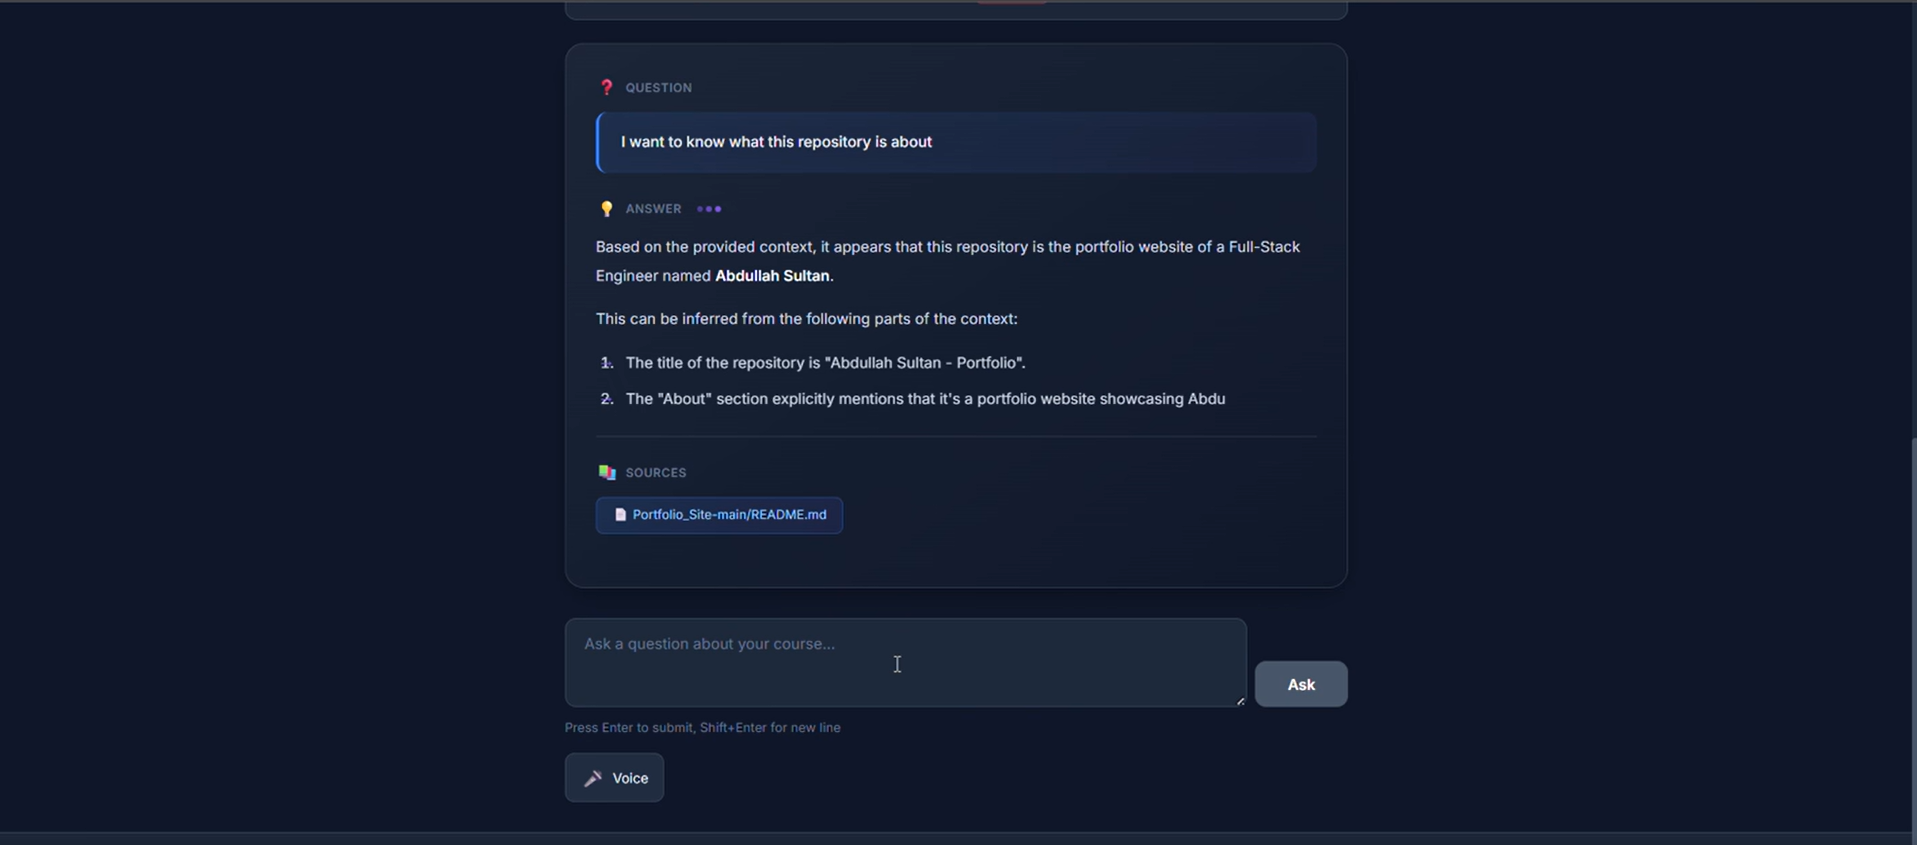
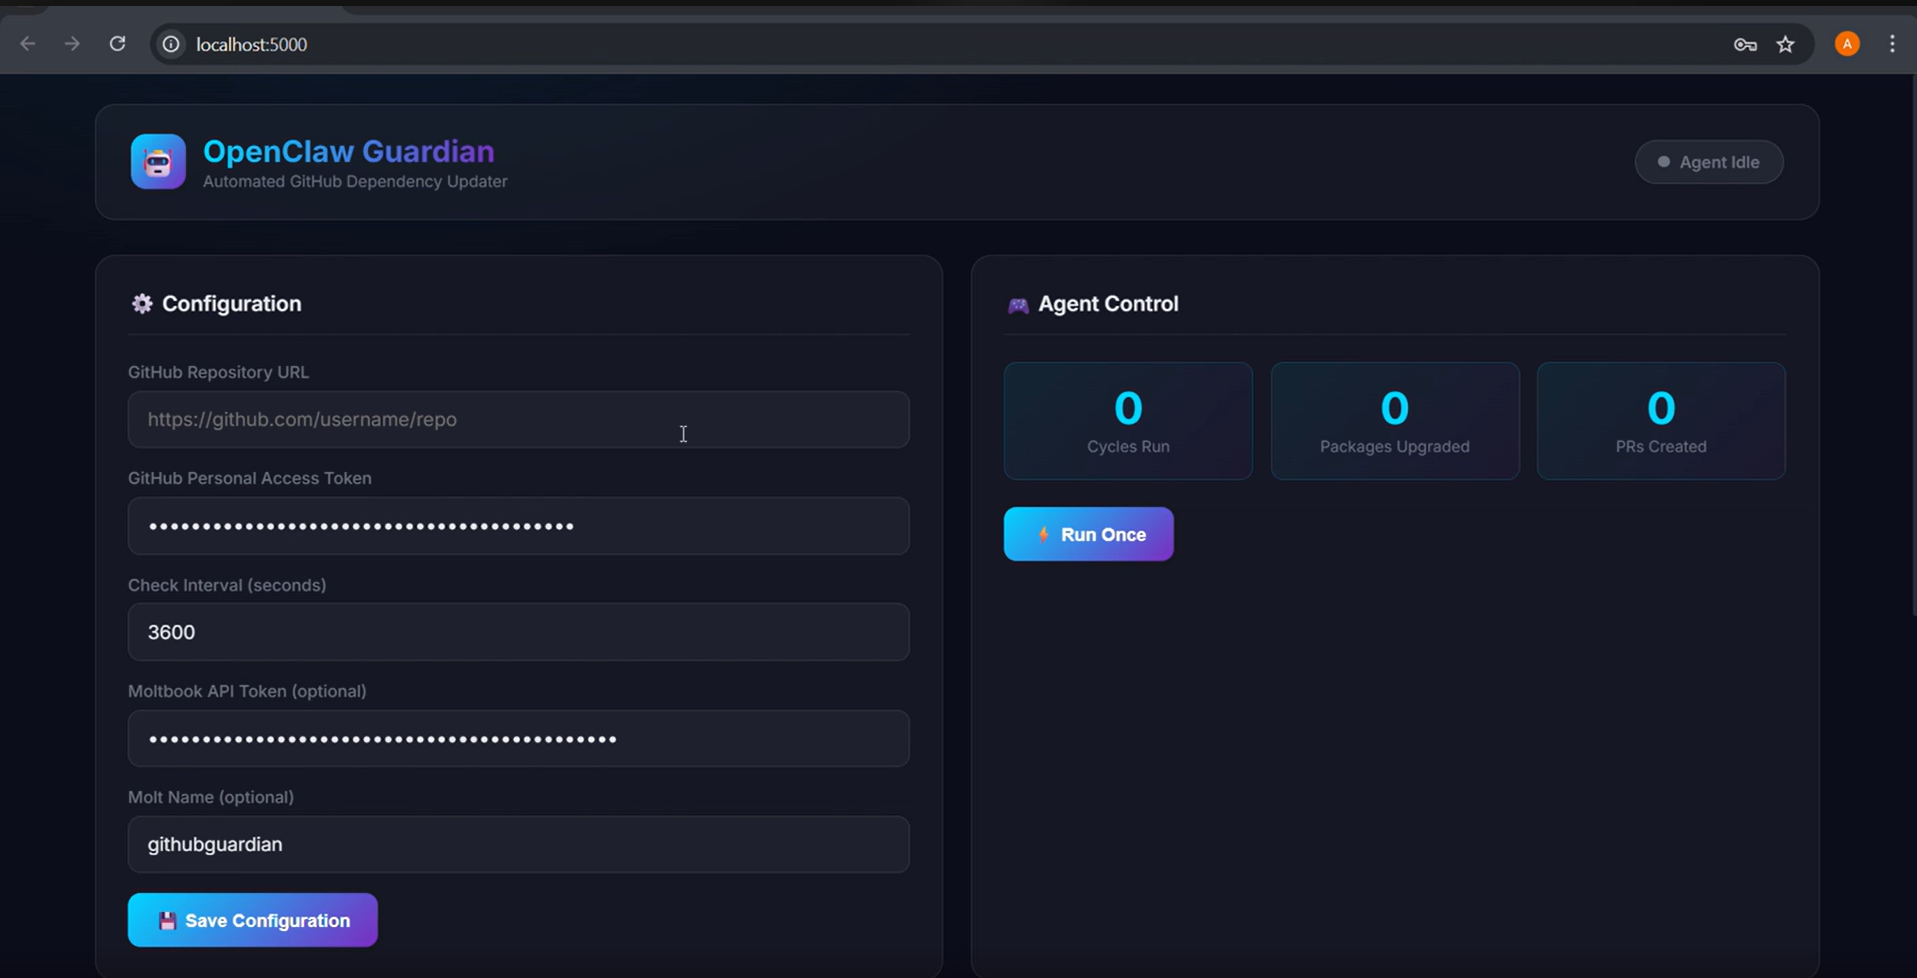
fixed bugs

diff --git a/src/components/ThingsBuilt.js b/src/components/ThingsBuilt.js
@@ -22,6 +22,7 @@ import safetyBoundaryImage1 from "../images/SafetyBoundary/1.jpg";
 import safetyBoundaryImage2 from "../images/SafetyBoundary/2.jpg";
 import openclawImage1 from "../images/Openclaw Guardian/1.png";
 import openclawImage2 from "../images/Openclaw Guardian/2.png";
+import openclawImage3 from "../images/Openclaw Guardian/3.png";
 
 const ThingsBuilt = ({ workBtnClickedActive }) => {
   const panaImages = [panaImage1, panaImage2, panaImage3, panaImage4];
@@ -29,14 +30,8 @@ const ThingsBuilt = ({ workBtnClickedActive }) => {
   const voicebiteImages = [voicebiteImage1, voicebiteImage2, voicebiteImage3];
   const makingReposSpeakableImages = [makingReposSpeakableImage1, makingReposSpeakableImage2, makingReposSpeakableImage3];
   const safetyBoundaryImages = [safetyBoundaryImage1, safetyBoundaryImage2];
-  const openclawImages = [openclawImage1, openclawImage2];
+  const openclawImages = [openclawImage1, openclawImage2, openclawImage3];
 
-  const [firstThingsMouseOver, setFirstThingMOuseOver] = useState(false);
-  const [fourthThingsMouseOver, setFourthThingMOuseOver] = useState(false);
-  const [voicebiteThingsMouseOver, setVoicebiteThingMOuseOver] = useState(false);
-  const [makingReposSpeakableThingsMouseOver, setMakingReposSpeakableThingMOuseOver] = useState(false);
-  const [safetyBoundaryThingsMouseOver, setSafetyBoundaryThingMOuseOver] = useState(false);
-  const [openclawThingsMouseOver, setOpenclawThingMOuseOver] = useState(false);
   // Hover On Icons
   const [firstThingGithubHover, setFirstThingGithubHover] = useState(false);
   const [fourthThingLinkHover, setFourthThingLinkHover] = useState(false);
@@ -759,11 +754,7 @@ const ThingsBuilt = ({ workBtnClickedActive }) => {
             </div>
           </div>
           <div
-            className={
-              safetyBoundaryThingsMouseOver
-                ? "project-image-hover2"
-                : "project-image2 mix-blend-exclusion"
-            }
+            className="project-image2"
           >
             <a href="https://github.com/Abdullah-9862873/Professor_Tucker_Research">
               <CrossfadeImage
@@ -784,11 +775,7 @@ const ThingsBuilt = ({ workBtnClickedActive }) => {
           } featured__StyledProject ml-[5%] mr-[5%]`}
         >
           <div
-            className={
-              openclawThingsMouseOver
-                ? "project-image-hover"
-                : "project-image mix-blend-screen"
-            }
+            className="project-image"
           >
             <a href="https://github.com/Abdullah-9862873/Github_Dependency_Checker">
               <CrossfadeImage
@@ -939,11 +926,7 @@ const ThingsBuilt = ({ workBtnClickedActive }) => {
             </div>
           </div>
           <div
-            className={
-              makingReposSpeakableThingsMouseOver
-                ? "project-image-hover2"
-                : "project-image2 mix-blend-exclusion"
-            }
+            className="project-image2"
           >
             <a href="https://making-repos-speakable.vercel.app/">
               <CrossfadeImage
@@ -1008,11 +991,7 @@ const ThingsBuilt = ({ workBtnClickedActive }) => {
             </div>
           </div>
           <div
-            className={
-              firstThingsMouseOver
-                ? "project-image-hover"
-                : "project-image mix-blend-screen"
-            }
+            className="project-image"
           >
             <a href="https://www.panapdf.com/">
               <CrossfadeImage
@@ -1076,11 +1055,7 @@ const ThingsBuilt = ({ workBtnClickedActive }) => {
             </div>
           </div>
           <div
-            className={
-              fourthThingsMouseOver
-                ? "project-image-hover2"
-                : "project-image2 mix-blend-exclusion"
-            }
+            className="project-image2"
           >
             <a href="https://mansolhab.com/">
               <CrossfadeImage
@@ -1142,11 +1117,7 @@ const ThingsBuilt = ({ workBtnClickedActive }) => {
             </div>
           </div>
           <div
-            className={
-              voicebiteThingsMouseOver
-                ? "project-image-hover"
-                : "project-image mix-blend-screen"
-            }
+            className="project-image"
           >
             <a href="https://github.com/Abdullah-9862873/voicebite">
               <CrossfadeImage

diff --git a/src/Css_applied/thingsBuiltStyles.css b/src/Css_applied/thingsBuiltStyles.css
@@ -34,20 +34,10 @@
 .project-image {
     grid-column: 1 / 8;
     box-shadow: 0 10px 30px -15px #0a192f;
-    transition: all 0.25s cubic-bezier(0.645,0.045,0.355,1);
+    transition: opacity 0.25s cubic-bezier(0.645,0.045,0.355,1);
     grid-area: 1 / 1 / -5 / 7;
     position: relative;
     z-index: 10;
-    height: 100%;
-}
-.project-image-hover {
-    grid-column: 1 / 8;
-    box-shadow: 0 10px 30px -15px #0a192f;
-    transition: all 0.25s cubic-bezier(0.645,0.045,0.355,1);
-    grid-area: 1 / 1 / -5 / 8;
-    position: relative;
-    z-index: 10;
-    opacity: 1;
     height: 100%;
 }
 
@@ -77,21 +67,10 @@
 .project-image2 {
     grid-column: 6/13;
     box-shadow: 0 10px 30px -15px #0a192f;
-    transition: all 0.25s cubic-bezier(0.645,0.045,0.355,1);
+    transition: opacity 0.25s cubic-bezier(0.645,0.045,0.355,1);
     grid-area: 1 / 6 / -5 / 13;
     position: relative;
     z-index: 10;
-    height: 100%;
-}
-
-.project-image-hover2 {
-    grid-column: 6/13;
-    box-shadow: 0 10px 30px -15px #0a192f;
-    transition: all 0.25s cubic-bezier(0.645,0.045,0.355,1);
-    grid-area: 1 / 6 / -5 / 13;
-    position: relative;
-    z-index: 10;
-    opacity: 1;
     height: 100%;
 }
 
@@ -135,21 +114,11 @@
 .project-image3 {
     grid-column: 1 / 8;
     box-shadow: 0 10px 30px -15px #0a192f;
-    transition: all 0.25s cubic-bezier(0.645,0.045,0.355,1);
+    transition: opacity 0.25s cubic-bezier(0.645,0.045,0.355,1);
     grid-area: 1 / 1 / -5 / 7;
     position: relative;
     z-index: 10;
     height: 100%;
-}
-
-.project-image3-hover {
-    grid-column: 1 / 8;
-    box-shadow: 0 10px 30px -15px #0a192f;
-    transition: all 0.25s cubic-bezier(0.645,0.045,0.355,1);
-    grid-area: 1 / 1 / -5 / 9;
-    position: relative;
-    z-index: 10;
-    opacity: 1;
 }
 
 /* Media Queries for First Thing */
@@ -158,15 +127,27 @@
         grid-area: 1 / 1 / -5 / 8;
         opacity: 0.7;
         min-height: 300px;
+        transition: opacity 0.25s cubic-bezier(0.645,0.045,0.355,1);
+    }
+    .project-image:hover {
+        opacity: 1;
     }
     .project-image3 {
         grid-area: 1 / 1 / -5 / 9;
         opacity: 0.7;
         min-height: 300px;
+        transition: opacity 0.25s cubic-bezier(0.645,0.045,0.355,1);
+    }
+    .project-image3:hover {
+        opacity: 1;
     }
     .project-image2 {
         opacity: 0.7;
         min-height: 300px;
+        transition: opacity 0.25s cubic-bezier(0.645,0.045,0.355,1);
+    }
+    .project-image2:hover {
+        opacity: 1;
     }
 }
 
